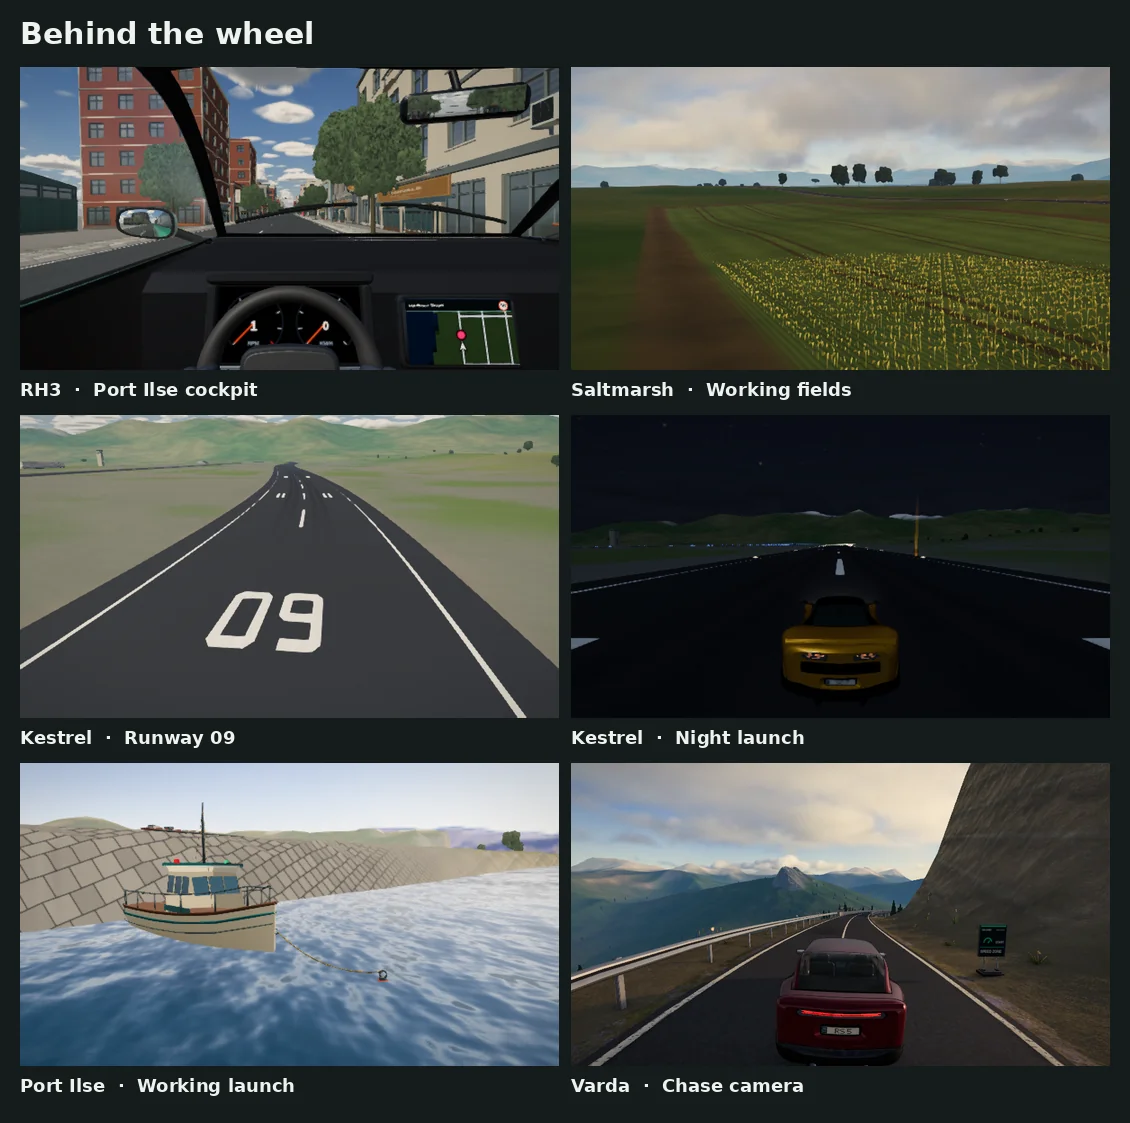
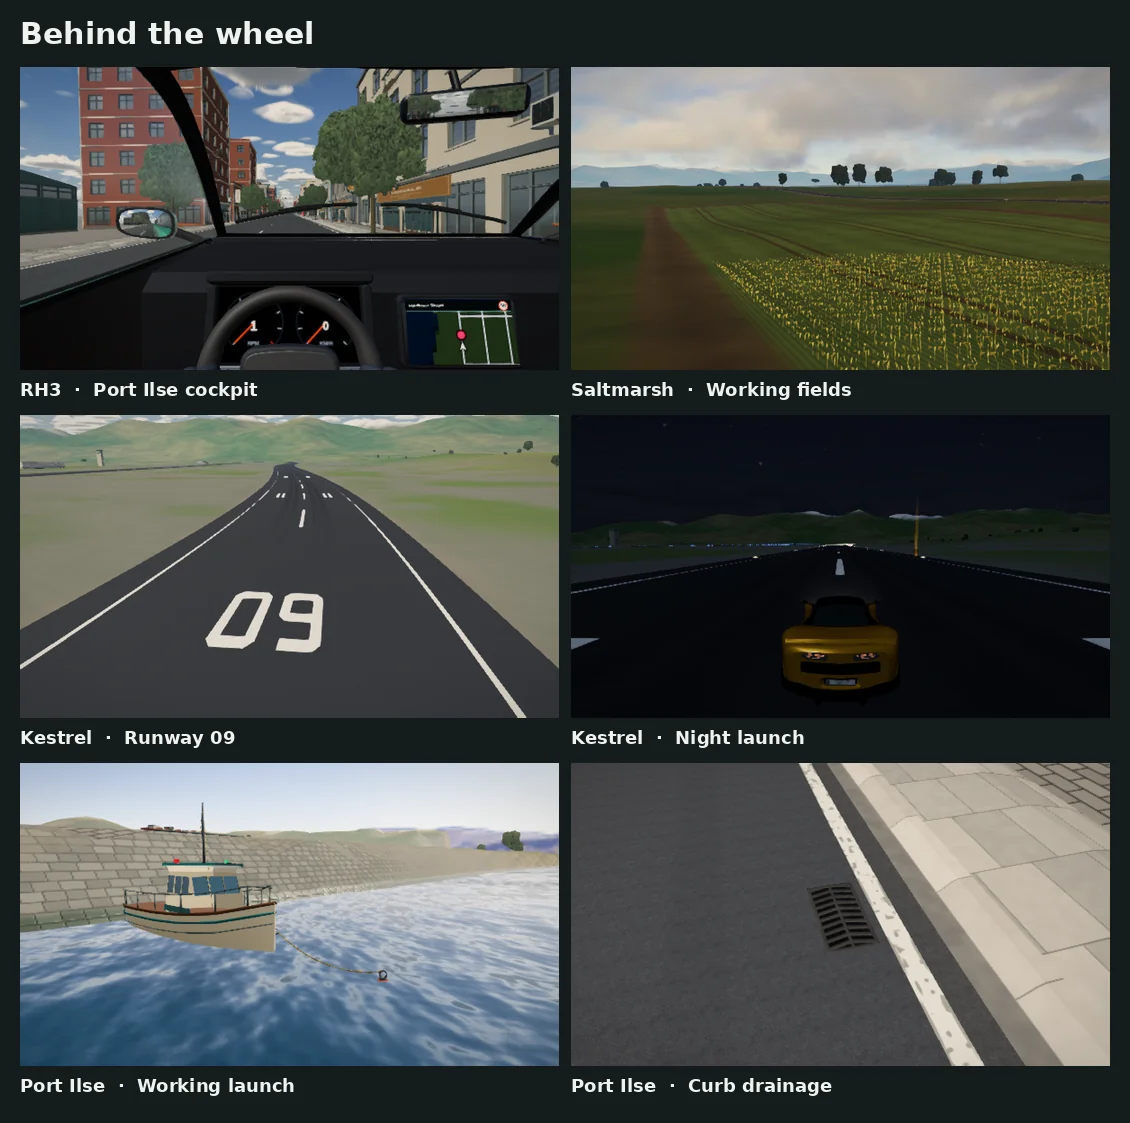
Document the matched tidal wall, curb drainage and 506 km driving soak

Changed region(s): [[0.4956, 0.6545, 0.9912, 0.9973], [0.0, 0.748, 0.3407, 0.8415]]

diff --git a/docs/production/solvane-coast-field-review/coastal-driving-update.md b/docs/production/solvane-coast-field-review/coastal-driving-update.md
@@ -2,7 +2,7 @@
 
 The photographs in the supplied 100-image reference pack guided three decisions visible from the driver’s seat. The instruments and mirrors have to be readable at speed, roadside objects need to meet the road at the right height, and the distant skyline needs a recognisable shape. The captures below show the original Solvane cars and landscape in the running Three.js game.
 
-![Earlier and updated views of the Harbour Front crossing, the Varda Pass approach and the Kestrel control tower](festival-before-after.webp)
+![Earlier and updated views of the Harbour Front crossing, the Varda Pass approach, Kestrel control tower and Port Ilse tidal wall](festival-before-after.webp)
 
 On Harbour Front, the zebra bars lead into dropped kerbs with tactile paving. Stop lines, wet cast iron and the crossing paint each share their footprint with the tyre-contact sampler. At Varda, nine bedded rock spurs change the skyline, the road cuts and the ground the car can actually drive on. At Kestrel, the control tower has a glazed, raked cab with eight panes, a wraparound gallery and a recessed ground entrance. Runway 09/27 has a marking at each end, directional threshold lights and touchdown rubber that changes grip with the weather.
 
@@ -12,7 +12,7 @@ Each of the ten road cars carries two convex wing mirrors and a flat interior mi
 
 ![Gameplay captures of the cockpit, Saltmarsh fields, Kestrel runway and Port Ilse harbour](festival-gameplay.webp)
 
-At Saltmarsh, planted rows, cut stubble, headlands and tractor wheelways sit on the same terrain sampled by the wheels. The distant rows follow the same bearings as the individual plants. At Port Ilse, three working launches follow the harbour swell. Each boat swings from its bow eye to a moving buoy on a 3.87 m line. A three-minute test checks both ends, rope length and the pose after seeking backward in time.
+At Saltmarsh, planted rows, cut stubble, headlands and tractor wheelways sit on the same terrain sampled by the wheels. The distant rows follow the same bearings as the individual plants. At Port Ilse, three working launches follow the harbour swell. Each boat swings from its bow eye to a moving buoy on a 3.87 m line. A three-minute test checks both ends, rope length and the pose after seeking backward in time. On the steep quay bank, masonry courses run horizontally from the sea-level datum. The tide band stays damp above the waterline.
 
 ## Driving and rendering checks
 
@@ -20,9 +20,16 @@ At Saltmarsh, planted rows, cut stubble, headlands and tractor wheelways sit on 
 | --- | --- |
 | Junctions | Drove all 76 directed junction turns, including left and right turns. Each run stayed on the carriageway and cleared its indicator. |
 | Traffic cruise | Six minutes per car, repeated with the same seed and 24 ambient vehicles at peak. The RH3 covered 7.23 km in clear weather, the RP6 covered 2.97 km in rain and the SC7 covered 1.74 km in clear weather. Each pair reproduced its movement digest with zero recoveries. |
+| Motorcycle cruise | An earlier drive sent the SBK1000 and NR900 wide at the right-angle turn from Chandlers Row onto Market Street. After reserving braking distance before lean-in, the SBK1000, NR900 and SM450 each cleared the junction and rode for four minutes without a fall or reset. Their distances were 4.18, 3.82 and 3.44 km. |
 | Road markings | White and yellow road paint fell from 212,270 to 77,694 triangles. Across six paved road classes, more than 200,000 independent probes put the horizontal edge error below 9.5 mm and vertical error below 2.6 mm. |
 | Port Ilse lighting | From the Harbour Front starting street on Low, five luminaires keep their full castings and 235 retain their distant silhouette. Across the network this takes 25,600 triangles, down from 123,360 with all castings at full detail. All 240 light sources retain their position. Counts are before camera culling and exclude other lighting. |
 | Street ironwork | The town contains 82 access covers and 322 kerb drains. Each uses two surface triangles with engraved relief and a wet response. Placement and tyre overlaps are checked against the actual street geometry. |
 | Mirrors | Captured each of the three live reflection textures on Low. The two wing images were 128 × 73 and the interior image was 128 × 28. They contained different, non-blank scene images. |
 
-The before-and-after plate uses matching camera views and daylight settings. The Varda chase views are both 800 × 450. The crossing and tower pairs have different native render sizes and are resized for comparison. Scenery details use the inspection camera inside the live session. The cockpit and chase captures use the driving cameras. The rigs ran Chromium with ANGLE SwiftShader. Console-equivalent image quality, sustained hardware frame times and competitive input latency still require a physical target run.
+Across development builds, the event drivers covered **506.34 km** in 158 attempts at 120 simulation steps per second. They returned 156 scored finishes with zero recorded off-route time or recoveries. Two early Port Ilse runs reached the harness’s 530-second ceiling. The same car and weather finished once the ceiling was raised to 850 simulated seconds. Free-roam traffic was measured separately in the table above.
+
+During guardrail packing, changing when the road builders release their buffers reduced the live JavaScript heap and typed-array storage from 129.8 to 95.4 MiB in two Node runs per build. All 609 road meshes and point systems produced the same geometry digest. This measures memory at that construction stage. The renderer still has to upload the finished geometry.
+
+The project’s open-world acceptance command is `npm run test:open-world`. It checks the 74.46 km road network, all 18 event routes, deterministic traffic, free-roam motorcycles and two motorcycle races. The geometry and driving results above are recorded in the [measurement file](coastal-measurements.json).
+
+The before-and-after plate uses matching camera views and daylight settings. The Varda chase views are both 800 × 450. Both tidal-wall images use the same harbour camera and 599 × 337 native capture. The crossing and tower pairs have different native render sizes and are resized for comparison. Scenery details use the inspection camera inside the live session. The cockpit and chase captures use the driving cameras. The rigs ran Chromium with ANGLE SwiftShader. Console-equivalent image quality, sustained hardware frame times and competitive input latency still require a physical target run.
